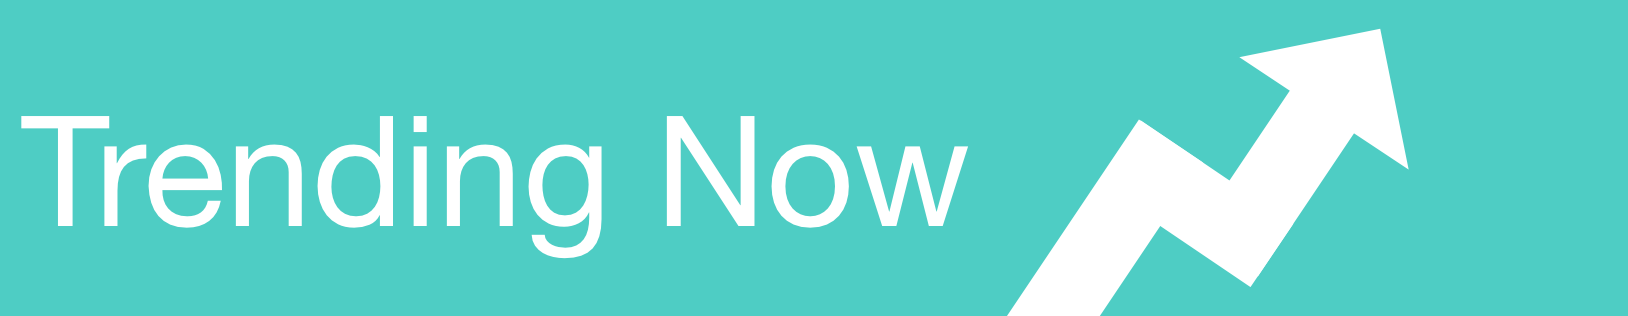
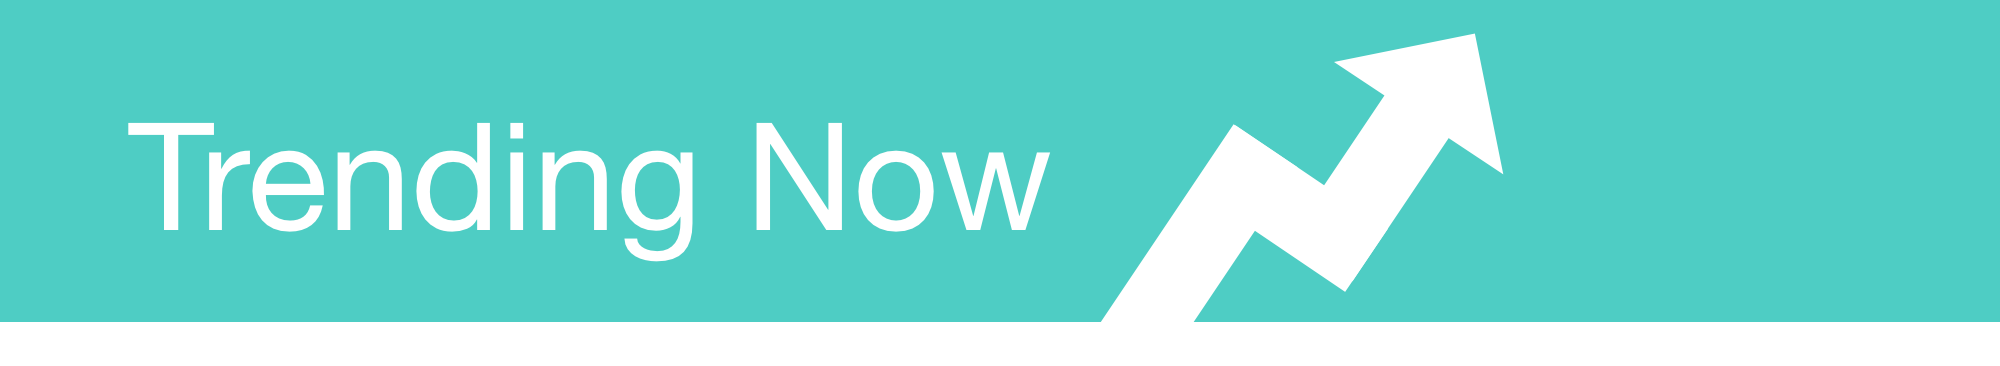
now, week, month and more stuff

diff --git a/webapp/public/js/main.js b/webapp/public/js/main.js
@@ -1,5 +1,6 @@
 $(document).ready(function () {
   getImages();
+  //getCategory();
 });
 
 
@@ -30,7 +31,7 @@ var getImages = function () {
             img = blurb[0].innerHTML.split('src=\"');
             if (img.length != 1) {
               img = "https:" + img[1].split(' ')[0];
-              if (img.includes('Ambox_important') || img.includes('Ambox_current') || img.includes('Wiki_letter_w.svg') || img.includes('Question_book-new.svg')) {
+              if (img.includes('23px') || img.includes('Ambox_important') || img.includes('Ambox_current') || img.includes('Wiki_letter_w.svg') || img.includes('Question_book-new.svg')) {
                 img = undefined;
                 imgArr = blurb[0].innerHTML.split('src="');
                 for (var i = 0; i < imgArr.length; i++) {
@@ -55,19 +56,61 @@ var getImages = function () {
             }
             desc = desc[1].split('</p>')[0];
 
+            sentences = desc.split('. ');
+            if (sentences.length > 2) {
+              desc = '';
+              for (var i = 0; i < 2; i++) {
+                desc += sentences[i] + '. ';
+              }
+            }
+
             for (var i = 1; i < numberOfPages - 1; i++) {
               if ($("#title" + i).html() === (title)) {
                 var inner = $("#wikipage" + i).html() + "<br><div class=\"text\">" + desc + "</div> </div>";
                 $("#wikipage" + i).html(inner);
                 var newHTML = "";
                 if (img != undefined) {
-                  newHTML = "<div class=\"imgwrap\"><div class=\"imgtext\">" + i + "</div><img src=\"" + img + "\" class=\"cardimg\"></div>" + "<div class=\"innercard\">" + $("#wikicard" + i).html() + "<br><a href=\"/wikipage?" + i + "\" class=\"seemore\" style=\"text-align: right\">See more...</a>";
+                  newHTML = "<div class=\"imgwrap\"><div class=\"imgtext\">" + i + "</div><img class=\"cardimg\" src=\"" + img + "\"></div>" + "<div class=\"innercard\">" + $("#wikicard" + i).html() + "<a href=\"/wikipage?" + i + "\" class=\"seemore\" style=\"text-decoration: underline\">See more</a>";
                 } else {
-                  newHTML = "<div class=\"imgwrap\"><div class=\"imgtext\">" + i + "</div></div>" + "<div class=\"innercard\">" + $("#wikicard" + i).html() + "<br><a href=\"/wikipage?" + i + "\" class=\"seemore\" style=\"text-align: right\">See more...</a>";
+                  newHTML = "<div class=\"imgwrap\"><div class=\"imgtext\">" + i + "</div><img class=\"cardimg\" src=\"images/arrow.png\"></div>" + "<div class=\"innercard\">" + $("#wikicard" + i).html() + "<a href=\"/wikipage?" + i + "\" class=\"seemore\" style=\"text-decoration: underline\">See more</a>";
                 }
+                // if (img != undefined) {
+                //   newHTML = "<div class=\"imgwrap\"><div class=\"imgtext\">" + i + "</div><img class=\"cardimg\" src=\"" + img + "\"></div>" + "<div class=\"innercard\">" + $("#wikicard" + i).html() + "<br><a href=\"/wikipage?" + i + "\" class=\"seemore\" style=\"text-align: right\">See more...</a>";
+                // } else {
+                //   newHTML = "<div class=\"imgwrap\"><div class=\"imgtext\">" + i + "</div><img class=\"cardimg\" src=\"images/arrow.png\"></div>" + "<div class=\"innercard\">" + $("#wikicard" + i).html() + "<br><a href=\"/wikipage?" + i + "\" class=\"seemore\" style=\"text-align: right\">See more...</a>";
+                // }
                 $("#wikicard" + i).html(newHTML);
               }
             }
+        },
+        error: function (errorMessage) {
+        }
+    });
+  }
+};
+
+
+var getCategory = function () {
+  for (var i = 1; i < numberOfPages - 1; i++) {
+    var pagename = $("#title" + i).html();
+    var url = 'https://en.wikipedia.org/w/api.php?action=query&prop=categories&titles=' + pagename;
+    console.log('requesting');
+
+    $.ajax({
+        type: "GET",
+        url: url,
+        contentType: "application/json; charset=utf-8",
+        async: false,
+        dataType: "json",
+        origin: "*",
+        success: function (data, textStatus, jqXHR) {
+
+          console.log(data);
+
+            var title = data.parse.title;
+            var markup = data.parse.text["*"];
+            var blurb = $('<div></div>').html(markup);
+
         },
         error: function (errorMessage) {
         }

diff --git a/webapp/routes/routes.js b/webapp/routes/routes.js
@@ -5,7 +5,7 @@ module.exports = function(app) {
 	// application -------------------------------------------------------------
 
 	app.get('/', function(req, res) {
-			var data = fs.readFileSync('data/test.txt').toString('utf8').split('\n');
+			var data = fs.readFileSync('data/now.txt').toString('utf8').split('\n');
 			var pageNames = [];
 			for (var i = 0; i < data.length; i++) {
 				var pageName = data[i].split('\t')[0];
@@ -15,9 +15,44 @@ module.exports = function(app) {
 			var numPages = pageNames.length;
 
 			res.render('index', {
+					type: "now",
 					wikiPageNames: pageNames,
 					numberOfPages: numPages,
 			});
+	});
+
+	app.get('/week', function(req, res) {
+		var data = fs.readFileSync('data/week.txt').toString('utf8').split('\n');
+		var pageNames = [];
+		for (var i = 0; i < data.length; i++) {
+			var pageName = data[i].split('\t')[0];
+			pageName = pageName.split('_').join(' ');
+			pageNames.push(pageName);
+		}
+		var numPages = pageNames.length;
+
+		res.render('index', {
+				type: "week",
+				wikiPageNames: pageNames,
+				numberOfPages: numPages,
+		});
+	});
+
+	app.get('/month', function(req, res) {
+		var data = fs.readFileSync('data/month.txt').toString('utf8').split('\n');
+		var pageNames = [];
+		for (var i = 0; i < data.length; i++) {
+			var pageName = data[i].split('\t')[0];
+			pageName = pageName.split('_').join(' ');
+			pageNames.push(pageName);
+		}
+		var numPages = pageNames.length;
+
+		res.render('index', {
+				type: "month",
+				wikiPageNames: pageNames,
+				numberOfPages: numPages,
+		});
 	});
 
 	app.get('/howitworks', function(req, res) {
@@ -33,8 +68,10 @@ module.exports = function(app) {
 	});
 
 	app.get('/getData', function(req, res){
-		var pageNames = fs.readFileSync('data/test.txt').toString('utf8').split('\n');
-		res.json({ pageData: pageNames });
+		var nowData = fs.readFileSync('data/now.txt').toString('utf8').split('\n');
+		var weekData = fs.readFileSync('data/week.txt').toString('utf8').split('\n');
+		var monthData = fs.readFileSync('data/month.txt').toString('utf8').split('\n');
+		res.json({ nowData: nowData, weekData: weekData, monthData: monthData });
 	});
 
 };

diff --git a/webapp/public/css/style.css b/webapp/public/css/style.css
@@ -1,6 +1,6 @@
 .menu {
   margin: 0px 100px;
-  margin-top: 50px;
+  margin-top: 25px;
   margin-bottom: 0px;
   padding: 0px 50px;
 }
@@ -74,12 +74,14 @@
   width: 100%;
   padding: 0px;
   margin: 0px;
+  margin-top: 20px;
+  margin-bottom: 35px;
   background-color: #4ECDC4;
 }
 
 .trendingimg {
   margin: 0px 100px;
-  padding: 0 50px;
+  padding-left: 50px;
   height: 100%;
 }
 
@@ -99,7 +101,7 @@ a:hover {
   color: white;
 }
 
-div .navbutton {
+.navbutton {
   display: inline-block;
   height: 38px;
   padding: 0 20px;
@@ -115,7 +117,61 @@ div .navbutton {
   background-color: transparent;
   cursor: pointer;
   box-sizing: border-box;
+  margin-top: 5px;
+}
+
+.home {
+  padding-left: 5px;
+}
+
+.homemenu {
+  height: 38px;
+  padding: 0 20px;
+  color: white;
+  text-align: center;
+  font-size: 16px;
+  font-weight: normal;
+  line-height: 38px;
+  letter-spacing: .2rem;
+  text-transform: uppercase;
+  text-decoration: none;
+  white-space: nowrap;
+  background-color: transparent;
+  cursor: pointer;
+  box-sizing: border-box;
   margin-top: 8px;
+  vertical-align: middle;
+}
+
+.menuimg {
+  height: 14px;
+  width: auto;
+  padding: 0px;
+}
+
+.topmenu {
+  display: flex;
+  align-self: center;
+  align-content: center;
+}
+
+.dropdown:hover .options {
+  visibility: visible;
+  opacity: 1;
+}
+
+.options {
+  padding-top: 40px;
+  visibility: hidden;
+  opacity: 0;
+  position: absolute;
+  display: inline-block;
+  float: left;
+}
+
+.option {
+  width: 100%;
+  background-color: #292f36;
 }
 
 .card {
@@ -174,7 +230,7 @@ div .navbutton {
   word-wrap: normal;
   height: auto;
   align-self: center;
-  width: 100%; 
+  width: 100%;
 }
 
 .cardtext {
@@ -191,7 +247,10 @@ div .navbutton {
 }
 
 .seemore {
-  width: auto;
+  float: right;
+  color: white;
+  text-decoration: underline;
+  /*width: auto;
   word-wrap: normal;
   word-break: normal;
   white-space: normal;
@@ -201,7 +260,7 @@ div .navbutton {
   border-color: white;
   border-style: solid;
   float: right;
-  padding: 2px 10px;
+  padding: 2px 10px;*/
 }
 
 .wikipagebar {

diff --git a/webapp/public/js/wikipage.js b/webapp/public/js/wikipage.js
@@ -1,9 +1,18 @@
 //console.log('in chart.js');
 
-$.get( "/getData", function(data) {
-    var pageData = data.pageData;
+$.get( '/getData', function(data) {
+    var pageData = undefined;
     //var month = data.month;
-    var id = parseInt(window.location.href.split('?')[1]);
+    var typeId = window.location.href.split('?')[1];
+    var type = typeId.split('_')[0];
+    var id = typeId.split('_')[1];
+    if (type === 'now') {
+      pageData = data.nowData;
+    } else if (type === 'week') {
+      pageData = data.weekData;
+    } else if (type === 'month') {
+      pageData = data.monthData;
+    }
 
     google.charts.load('current', {'packages':['line']});
     google.charts.setOnLoadCallback(drawChart);
@@ -50,7 +59,12 @@ $.get( "/getData", function(data) {
         chart.draw(data, options);
 
         getDescription();
-        getArticles();
+        if (type === 'now') {
+          getArticles();
+        } else {
+          document.getElementById('newscard').remove();
+          document.getElementById('articles').remove();
+        }
     }
 });
 
@@ -95,6 +109,21 @@ var getDescription = function () {
 }
 
 var getArticles = function () {
+
+  // const client = webhoseio.config({token: '3f07ddf5-10b1-40b8-95d5-78492557f2c8'});
+  // client.query('filterWebData', {q: 'github'})
+  //   .then(output => {
+  //     console.log(output['posts'][0]['text']); // Print the text of the first post
+  //     console.log(output['posts'][0]['published']); // Print the text of the first post publication date
+  // });
+  //
+  // // Get the next batch of posts
+  // client.getNext()
+  //   .then(output => {
+  //     console.log(output['posts'][0]['thread']['site']); // Print the site of the first post
+  //   });
+  //
+  // console.log("------------------------");
 
   var newsSources = "npr pbs bbc cnn nbc abc fox hannity limbaugh glenn beck";
 
